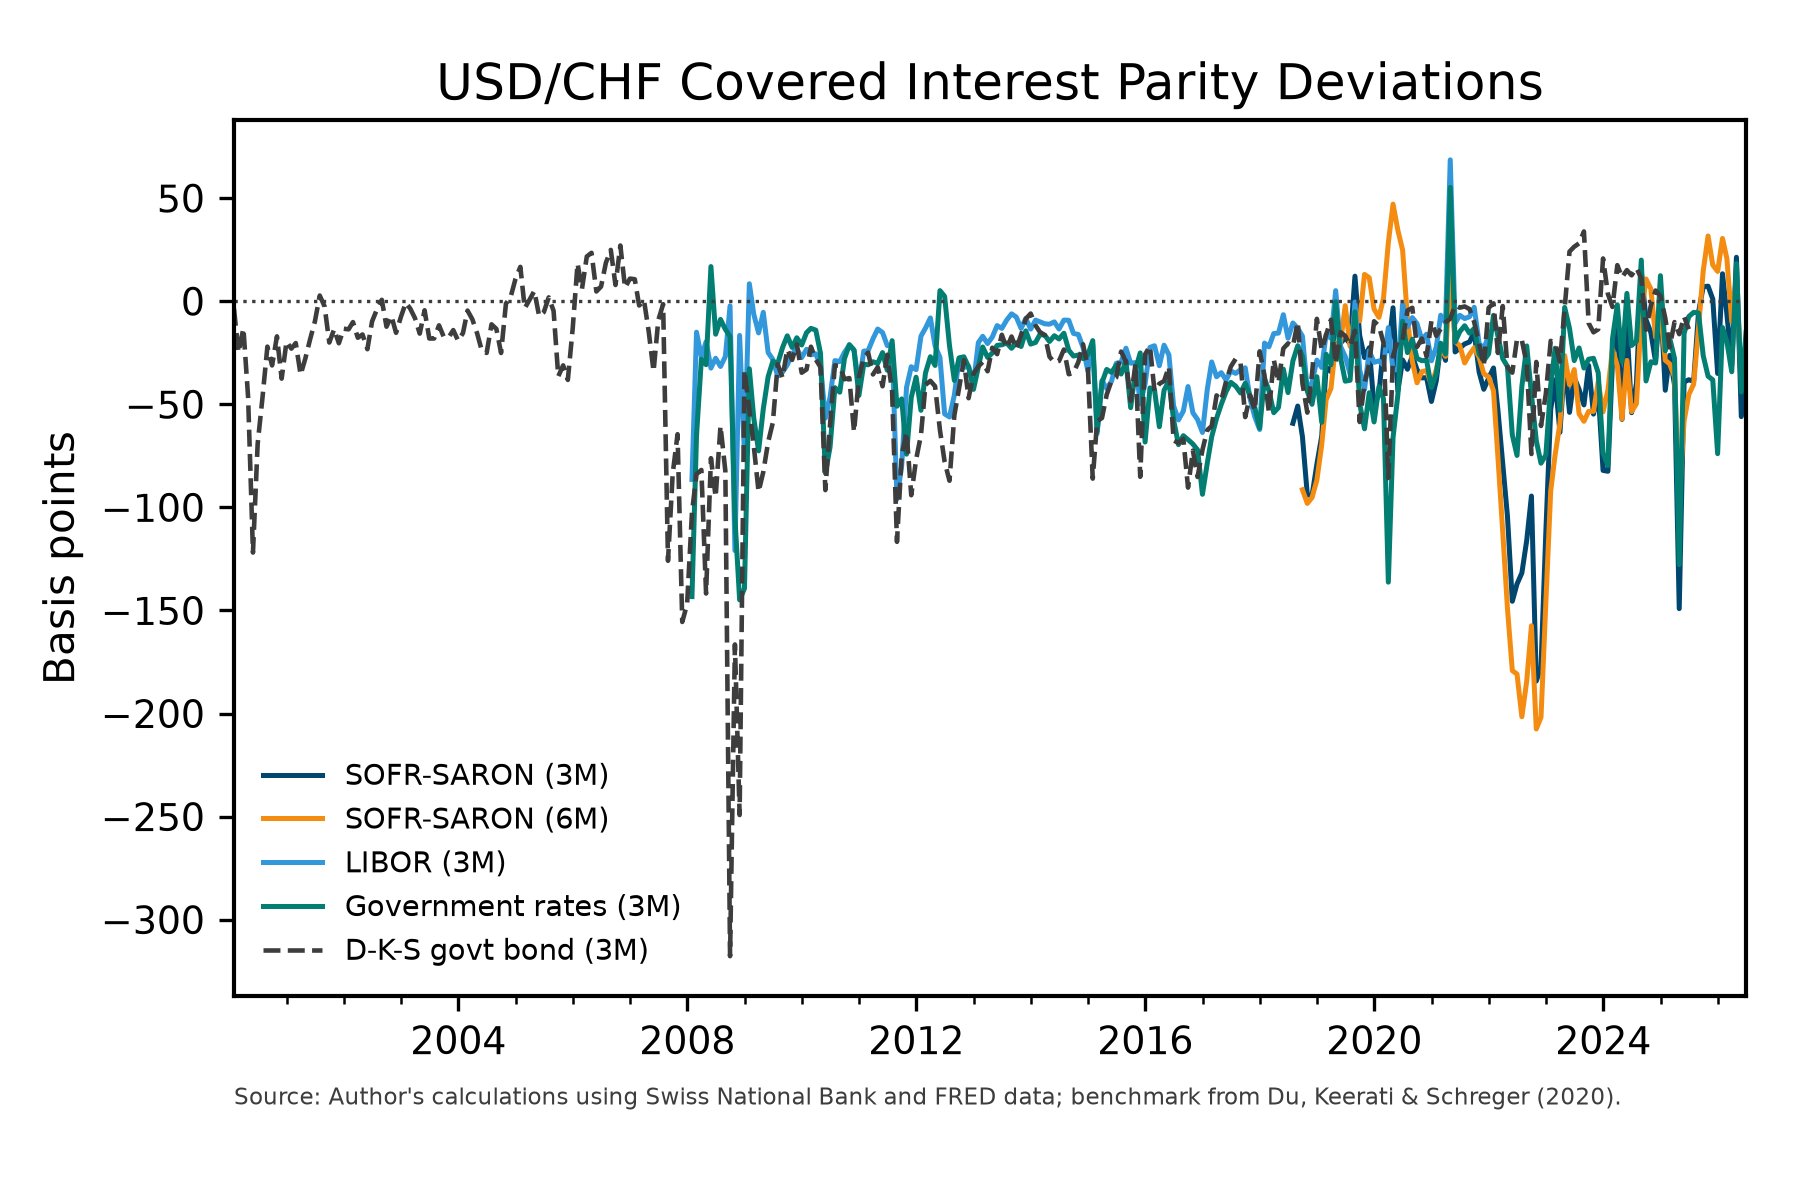
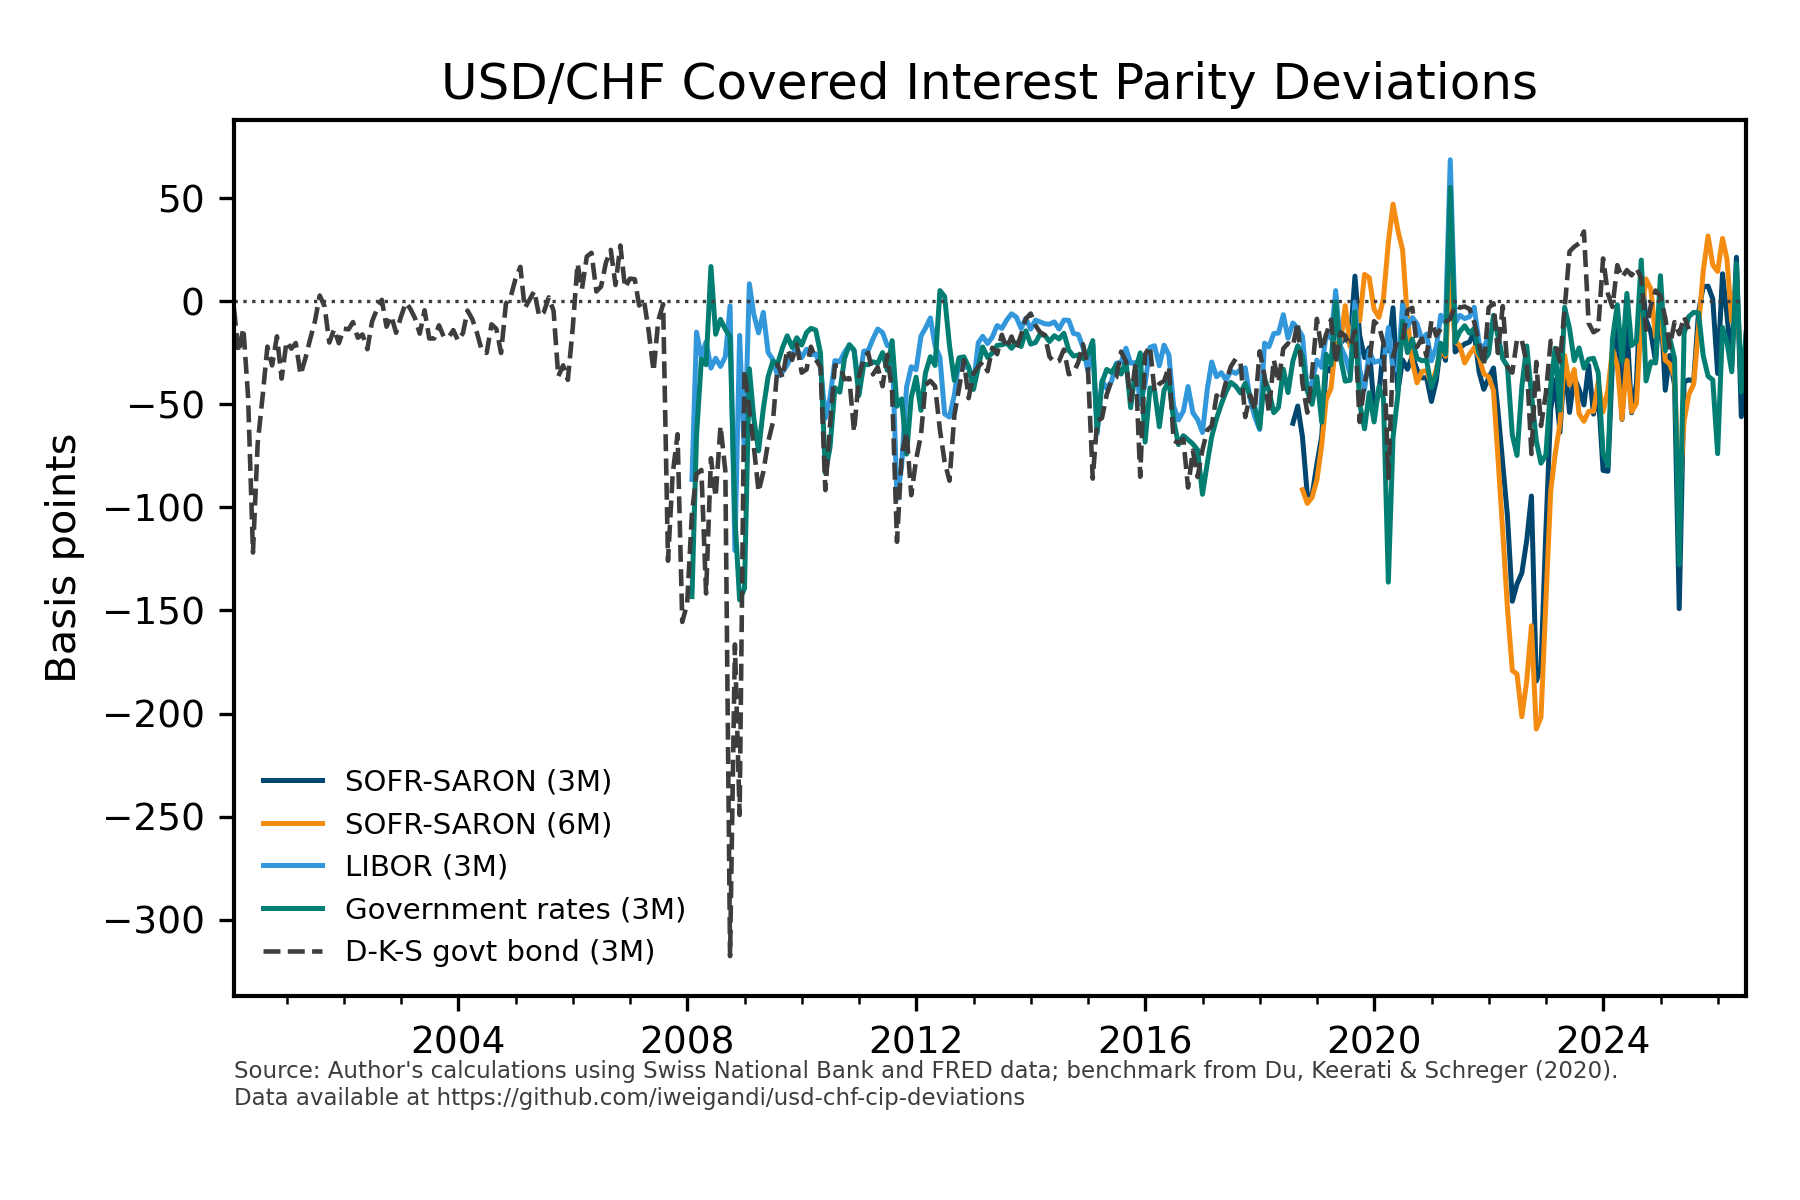
Add repository link to CIP chart note

diff --git a/usd_chf_cip.py b/usd_chf_cip.py
@@ -429,7 +429,8 @@ def plot_outputs(panel: pd.DataFrame) -> None:
 
     note = (
         "Source: Author's calculations using Swiss National Bank and FRED data; "
-        "benchmark from Du, Keerati & Schreger (2020)."
+        "benchmark from Du, Keerati & Schreger (2020).\n"
+        "Data available at https://github.com/iweigandi/usd-chf-cip-deviations"
     )
 
     fig.text(